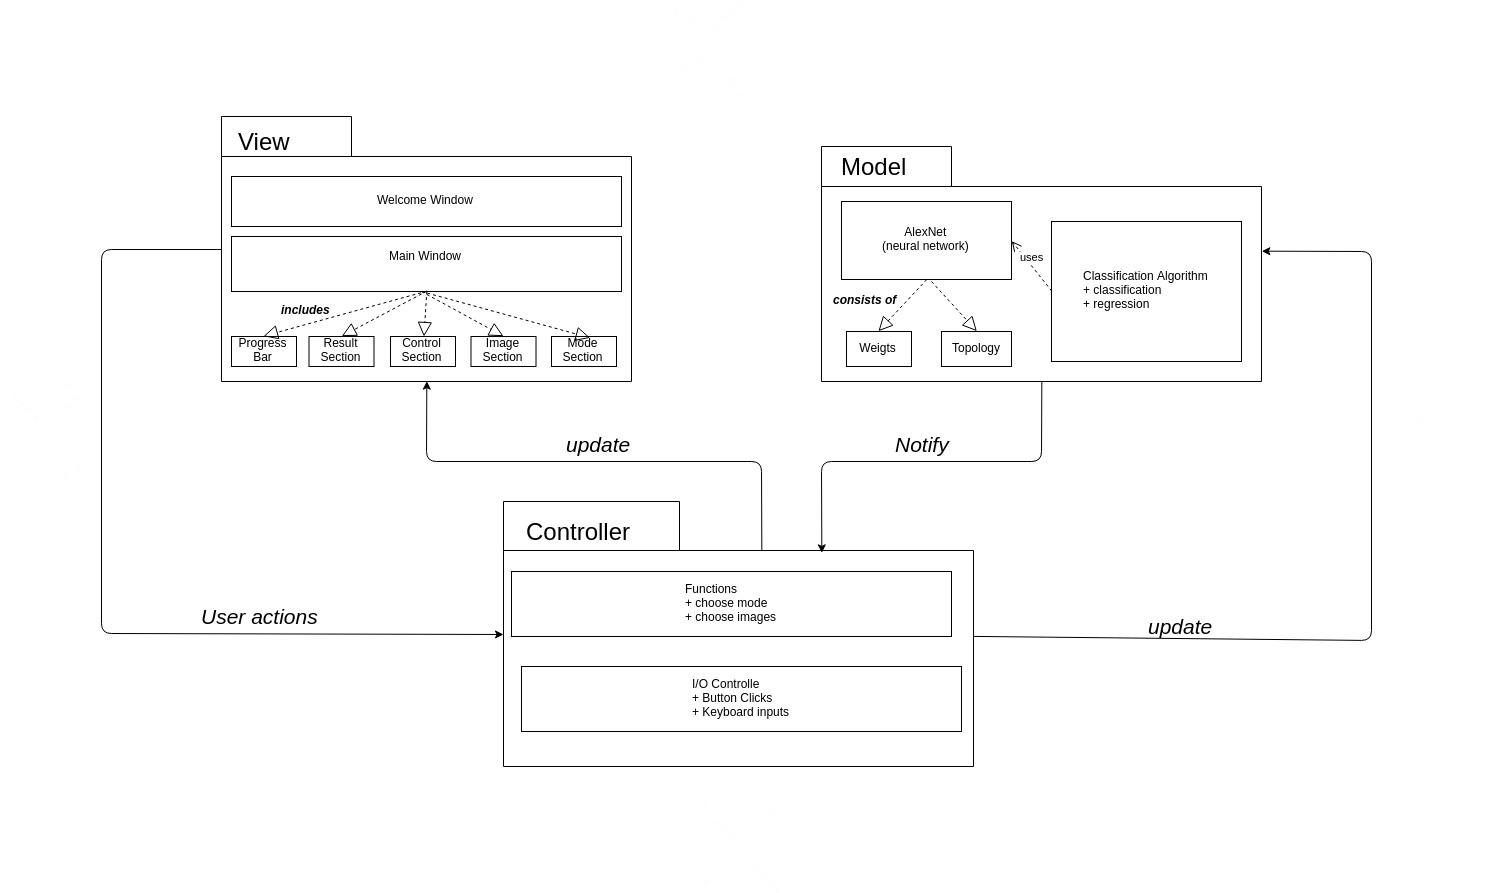
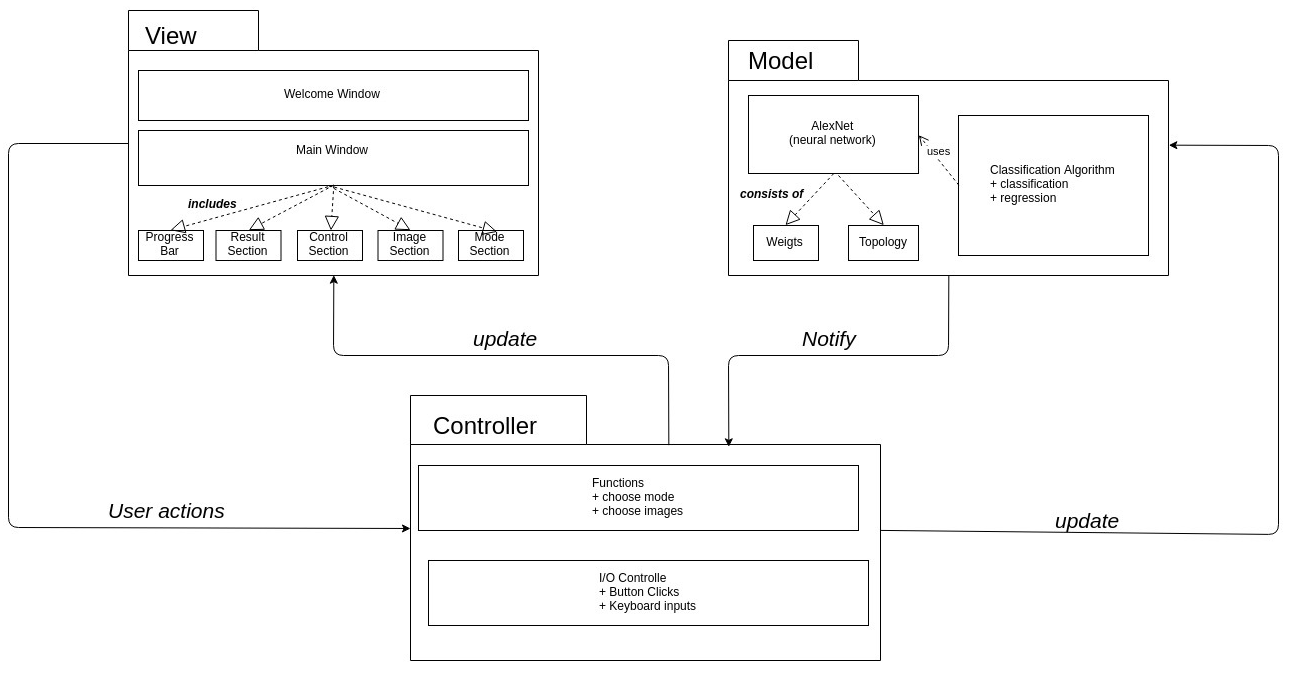
updated mvc and fixed issues in lastenheft

diff --git a/Lastenheft.tex b/Lastenheft.tex
@@ -268,15 +268,19 @@ The following conditions must be met:
 
 \section{System Model}
 
-\begin{center}
-\includegraphics[width=1.0\textwidth]{images/MVC.jpg}
-\end{center}
-
 Programming with less complexity makes delightful code that is less buggy and easier to maintain because it is reusable without modification. In order to achieve this goal we use in this context the MVC architecture which consists of three parts: Model, View and Controller.
+
+\begin{center}
+\includegraphics[width=1.0\textwidth]{images/MVC.png}
+\end{center}
 
 \subsection{Model}
 
 The model represents the domain. The model does not depend on the controller or the view. It contains the pretrained neural network model AlexNet as well as the classification algorithm to be used on images.The neural network itself is composed of a set of weights and topology. The toplogy sepecifies how the layers interact with each other. On the other hand the weights define when the neurons are activated. The layers are invoked by the scheduler which is responsible for resolving dependencies between them.
+
+\pagebreak
+
+
 
 \subsection{View}
 
@@ -295,7 +299,7 @@ The controller interprets user actions such as button clicks. It depends on the 
 \subsection{Use Cases}
 
 
-\subsubsection {Use Case: Select single image} \label {uc:sip}
+\subsubsection {Use Case: Select single image}
 
 \begin{enumerate}
 	\item Preface
@@ -335,13 +339,13 @@ The controller interprets user actions such as button clicks. It depends on the 
 			\item[4.] User selects a new input image, or cancels the selection.
 		\end{itemize}
 	\end{itemize}
-	\item Technology and Data variations
-	\begin{itemize} [nosep]
-	\item Only image files are accepted as input.
-	\end{itemize}
 \end{enumerate}
 
-\subsubsection {Use Case: Select multiple images} \label {uc:sip}
+\pagebreak
+
+
+
+\subsubsection {Use Case: Select multiple images}
 
 \begin{enumerate}
 	\item Preface
@@ -476,6 +480,8 @@ The controller interprets user actions such as button clicks. It depends on the 
 
 \pagebreak
 
+
+
 \subsubsection {Use Case: Send input image} \label {uc:sip}
 
 \begin{enumerate}
@@ -514,7 +520,9 @@ The controller interprets user actions such as button clicks. It depends on the 
 
 \pagebreak
 
-subsubsection {Use Case: View Results } \label {uc:sip}
+
+
+\subsubsection {Use Case: View Results }
 
 \begin{enumerate}
 	\item Preface
@@ -556,7 +564,9 @@ subsubsection {Use Case: View Results } \label {uc:sip}
 
 \pagebreak
 
-subsubsection {Use Case: Aggregate results } \label {uc:sip}
+
+
+\subsubsection {Use Case: Aggregate results }
 
 \begin{enumerate}
 	\item Preface
@@ -601,6 +611,47 @@ subsubsection {Use Case: Aggregate results } \label {uc:sip}
 
 
 
+\subsection {Use Case Diagrams}
+
+The section contains the use case diagrams. They show how the use cases are related to each other.
+
+\subsubsection {Simple Usage}
+
+The diagram shows a simple classification of a single image. 
+
+\begin{center}
+\includegraphics[width=1.0\textwidth]{UseCases/NormalUsageUCD.JPG}
+\end{center}
+
+\pagebreak
+
+
+
+\subsubsection {Aggregated Results Usage}
+
+The diagram shows a classification that aggregates the results of multiple images. 
+
+\begin{center}
+\includegraphics[width=0.8\textwidth]{UseCases/AggregateUCD.jpg}
+\end{center}
+
+\pagebreak
+
+
+
+\subsubsection {Usage by an External System}
+
+The diagram shows how an external system runs a classification. 
+
+\begin{center}
+\includegraphics[width=0.8\textwidth]{UseCases/ExtenalSystemUCD.jpg}
+\end{center}
+
+\pagebreak
+
+
+
+
 
 \section{Product Performance}
 
@@ -626,33 +677,6 @@ subsubsection {Use Case: Aggregate results } \label {uc:sip}
 
 
 
-\subsection {Use Case Diagrams}
-
-The section contains the use case diagrams. They show how the use cases are related to each other.
-
-\subsubsection {Simple Usage}
-
-The diagram shows a simple classification of a single image. 
-
-\begin{center}
-\includegraphics[width=1.0\textwidth]{UseCases/NormalUsageUCD.JPG}
-\end{center}
-
-\subsubsection {Aggregated Results Usage}
-
-The diagram shows a classification that aggregates the results of multiple images. 
-
-\begin{center}
-\includegraphics[width=0.8\textwidth]{UseCases/AggregateUCD.jpg}
-\end{center}
-
-\subsubsection {Usage by an External System}
-
-The diagram shows how an external system runs a classification. 
-
-\begin{center}
-\includegraphics[width=0.8\textwidth]{UseCases/ExtenalSystemUCD.jpg}
-\end{center}
 
 
 \section {Graphical User Interface}
@@ -753,7 +777,7 @@ All functions are tested by the following test cases. The basic tests test the b
 	\item[/T050/] Choose a file, whose format is not supported. (/F030/, \ref{bfunc})
 	\item[/T060/] Choose multiple input image files. (/F030/, \ref{bfunc})
 	\item[/T070/] Abort image file selection. (/F030/, \ref{bfunc})
-	\item[/T080/] Remove a selected image. (/F040, \ref{bfunc}/)
+	\item[/T080/] Remove a selected image. (/F040/, \ref{bfunc})
 	\item[/T090/] Reset the selection of images. (/F060/, \ref{bfunc})
 	\item[/T100/] Choose operation mode high performance. (/F070/, /F080/, \ref{bfunc})
 	\item[/T110/] Choose operation mode low power consumption. (/F070/, /F080/, \ref{bfunc})
@@ -775,19 +799,19 @@ All functions are tested by the following test cases. The basic tests test the b
 \subsection {Extended tests}
 
 \begin{itemize}
-	\item[/T210/] Start processing. (/F230/, /F240/, /F290/)
-	\item[/T220/] Finish processing. (/F300/, /F310/)
-	\item[/T230/] Start file open dialog for topology. (/F250/)
-	\item[/T240/] Choose topology. (/F250/)
-	\item[/T250/] When choosing a topology choose a non topology file. (/F250/)
-	\item[/T260/] Press show topology button. (/F260/)
-	\item[/T270/] Start file open dialog for weights. (/F270/)
-	\item[/T280/] Choose weights. (/F270/)
-	\item[/T290/] When choosing weights choose a non weights file. (/F270/)
-	\item[/T300/] Choose weights for another topology (/F270/)
-	\item[/T310/] Choose AlexNet (/F270/)
-	\item[/T320/] Choose GoogleNet (/F270/)
-	\item[/T330/] Run transfer learning (/F280/)
+	\item[/T210/] Start processing. (/F230/, /F240/, /F290/, \ref{ofunc})
+	\item[/T220/] Finish processing. (/F300/, /F310/, \ref{ofunc})
+	\item[/T230/] Start file open dialog for topology. (/F250/, \ref{ofunc})
+	\item[/T240/] Choose topology. (/F250/, \ref{ofunc})
+	\item[/T250/] When choosing a topology choose a non topology file. (/F250/, \ref{ofunc})
+	\item[/T260/] Press show topology button. (/F260/, \ref{ofunc})
+	\item[/T270/] Start file open dialog for weights. (/F270/, \ref{ofunc})
+	\item[/T280/] Choose weights. (/F270/, \ref{ofunc})
+	\item[/T290/] When choosing weights choose a non weights file. (/F270/, \ref{ofunc})
+	\item[/T300/] Choose weights for another topology (/F270/, \ref{ofunc})
+	\item[/T310/] Choose AlexNet (/F270/, \ref{ofunc})
+	\item[/T320/] Choose GoogleNet (/F270/, \ref{ofunc})
+	\item[/T330/] Run transfer learning (/F280/, \ref{ofunc})
 \end{itemize}
 
 \pagebreak
